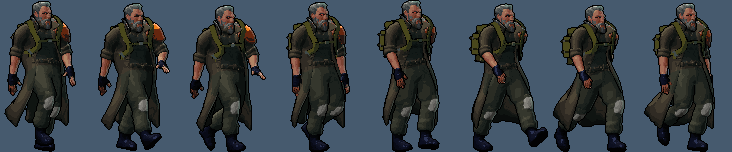
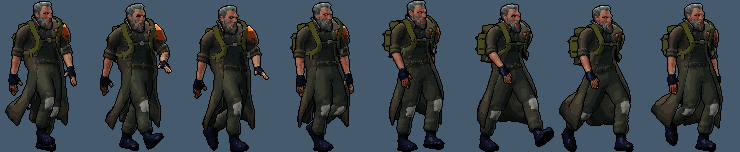
Slimmer build: pull the mesh toward the bone axes at load
slimBody() moves each vertex toward its bones' axes in the bind pose
(skin-weighted): torso 0.86, arms 0.86/0.89, neck and clavicles 0.93,
trousers 0.84 blending to 0.93 for the coat shell; head, hands and feet
unchanged. Runs before the backpack, straps and coat are fitted, so they
follow the slimmer body. Uses the true bind-matrix inverse (in 'attached'
mode bindMatrixInverse tracks the rotated world matrix).

Claude-Session: https://claude.ai/code/session_01BxPhLPzjPdV5FidnLnuZWi

diff --git a/hero3d/index.html b/hero3d/index.html
@@ -1569,6 +1569,40 @@ function loadModel(onLoad, onErr){
     finally { try { window.createImageBitmap = cib; } catch (e) {} }
   }, onErr);
 }
+// ---------- Slimmer build: pull each vertex toward its bones' axes (bind pose, skin-weighted), before the gear/coat are fitted ----------
+// Factor per bone: < 1 slims radially around the bone segment. Legs: the trousers (close to the leg axis) slim more than the coat shell.
+const SLIM = { torso:0.86, neck:0.93, clav:0.93, upper:0.86, fore:0.89, legIn:0.84, legOut:0.93, legInR:0.13, legOutR:0.18 };
+function slimBody(mesh){
+  const g = mesh.geometry, P = g.attributes.position, SI = g.attributes.skinIndex, SW = g.attributes.skinWeight;
+  const sk = mesh.skeleton, bones = sk.bones, bm = mesh.bindMatrix, bmi = new T.Matrix4().copy(bm).invert();   // not mesh.bindMatrixInverse: in 'attached' mode it tracks the (rotated) world matrix
+  const head = bones.map((b,i) => new T.Vector3().setFromMatrixPosition(new T.Matrix4().copy(sk.boneInverses[i]).invert()));
+  const tail = bones.map((b,i) => { const c = b.children.find(ch => ch.isBone && bones.includes(ch)); return c ? head[bones.indexOf(c)] : null; });
+  const kOf = (name, r) => {
+    if (/^(pelvis|spine_0[123])$/.test(name)) return SLIM.torso;
+    if (name === 'neck_01') return SLIM.neck;
+    if (/^clavicle_/.test(name)) return SLIM.clav;
+    if (/^upperarm_/.test(name)) return SLIM.upper;
+    if (/^lowerarm_/.test(name)) return SLIM.fore;
+    if (/^(thigh|calf)_/.test(name)){ const u = Math.min(1, Math.max(0, (r - SLIM.legInR) / (SLIM.legOutR - SLIM.legInR))); return SLIM.legIn + (SLIM.legOut - SLIM.legIn) * u; }
+    return 1;                                                           // head, hands, fingers, feet: unchanged
+  };
+  const v = new T.Vector3(), d = new T.Vector3(), q = new T.Vector3(), ab = new T.Vector3();
+  const comp = (attr, i, k) => k === 0 ? attr.getX(i) : k === 1 ? attr.getY(i) : k === 2 ? attr.getZ(i) : attr.getW(i);   // r128 has no getComponent
+  for (let i = 0; i < P.count; i++){
+    v.fromBufferAttribute(P, i).applyMatrix4(bm);
+    d.set(0,0,0);
+    for (let k = 0; k < 4; k++){
+      const w = comp(SW, i, k); if (w <= 0) continue;
+      const bi = comp(SI, i, k), a = head[bi], b = tail[bi]; if (!b) continue;
+      ab.subVectors(b, a); const t = Math.min(1, Math.max(0, q.subVectors(v, a).dot(ab) / Math.max(1e-6, ab.lengthSq())));
+      const axis = q.copy(a).addScaledVector(ab, t), r = v.distanceTo(axis), kk = kOf(bones[bi].name, r);
+      d.addScaledVector(axis.sub(v), (1 - kk) * w);                  // move toward the axis by (1-k) of the distance
+    }
+    v.add(d).applyMatrix4(bmi); P.setXYZ(i, v.x, v.y, v.z);
+  }
+  P.needsUpdate = true; g.computeBoundingSphere();
+}
+
 loadModel(gltf => {
   model = gltf.scene; model.rotation.y = Math.PI/2;          // the mesh faces +Z; the rig convention here is +X forward
   hero.add(model);
@@ -1581,6 +1615,7 @@ loadModel(gltf => {
     if (o.isBone) B[o.name] = o;
   });
   model.updateMatrixWorld(true);
+  model.traverse(o => { if (o.isSkinnedMesh) slimBody(o); });
   for (const n in B) BIND[n] = { p:B[n].position.clone(), q:B[n].quaternion.clone(), w:B[n].getWorldQuaternion(new T.Quaternion()) };
   const wp = n => B[n].getWorldPosition(new T.Vector3());
   for (const s of ['l','r']){ LEN['up_'+s] = wp('upperarm_'+s).distanceTo(wp('lowerarm_'+s)); LEN['lo_'+s] = wp('lowerarm_'+s).distanceTo(wp('hand_'+s));
